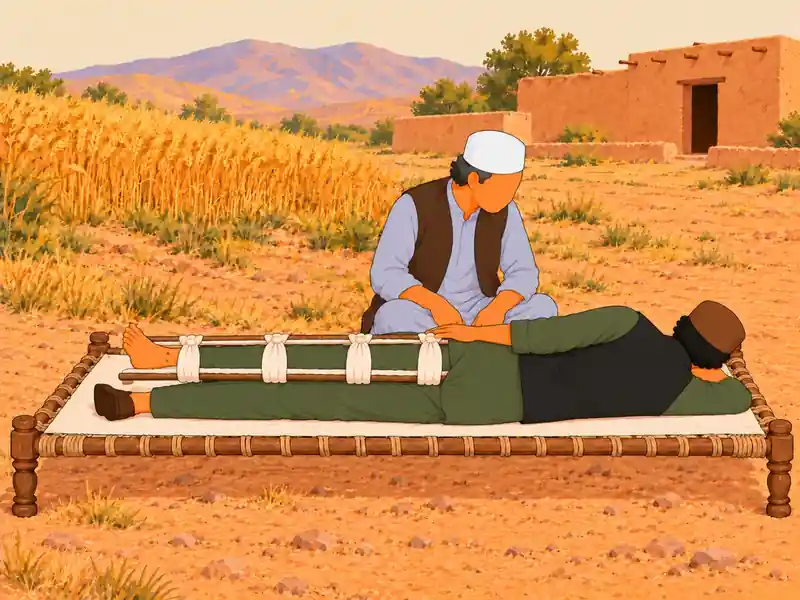
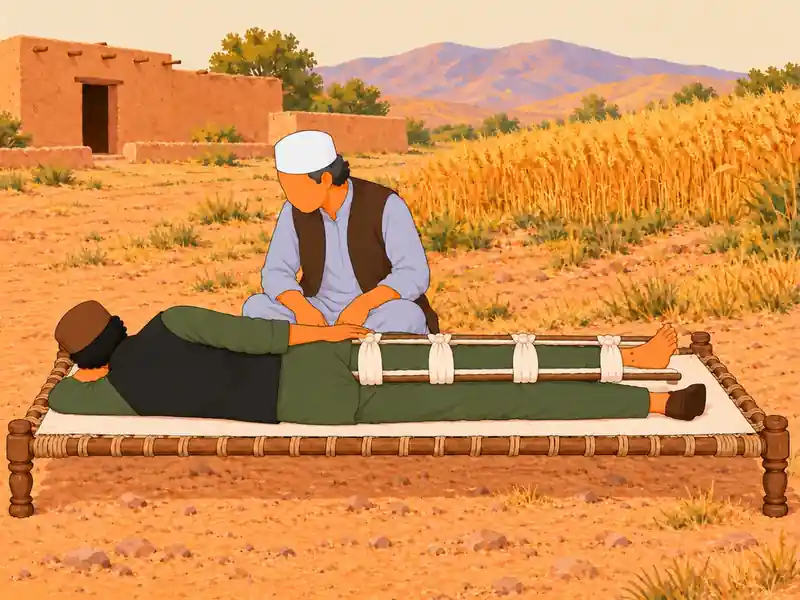
Emergency picture check (b): what the phone shows for burns, fits, snake bite and spine (12 Oct 2026)
- snake-bite frame 5 (snake-scorpion.side, also its step card): the man lay on his RIGHT side while the words say the left side; the picture is Mo's own, mirrored from the delivered source, with the scene's camera and ring mirrored too.
- burns.cool step card and the burns page picture: new still burns-pour (frame 1 with the jug tipped over the burn) instead of the jug held upright; burns.cool's clock icon moved inside the zoomed view; burns.warm's warmth lines moved off the child's face onto the shawl.
- seizures.head: ring on the folded cloth under the head, not on the face; seizures.safe and seizures.time shake with a 30 ms blend (no more see-through ghost of both poses).
- fever-fits.safe: ring round the stove and tea no longer cut off; falls-fractures.still: the dotted body line stops at the chin.

Claude-Session: https://claude.ai/code/session_01GL9vwjBdeCzwZ7CDqGZR3B

diff --git a/tools/steps_stills.py b/tools/steps_stills.py
@@ -44,6 +44,7 @@ STILLS = {
     "choking-adult-back": ("choking-adult", "2", "up", "big"),
     "choking-adult-pregnant": ("choking-adult", "5", "up", "big"),
     "bleeding-keep": ("bleeding-press", "2", "up", "big"),
+    "burns-pour": ("burns-cool", "1", "down", "big"),  # step burns.cool and the burns page: the jug tipped over the burn (12 Oct 2026)
     "burns-rings": ("burns-cool", "2", "up", "big"),
     "seizure-safe": ("seizure", "1", "up", "big"),
     "seizure-time": ("seizure", "3", "up", "big"),
